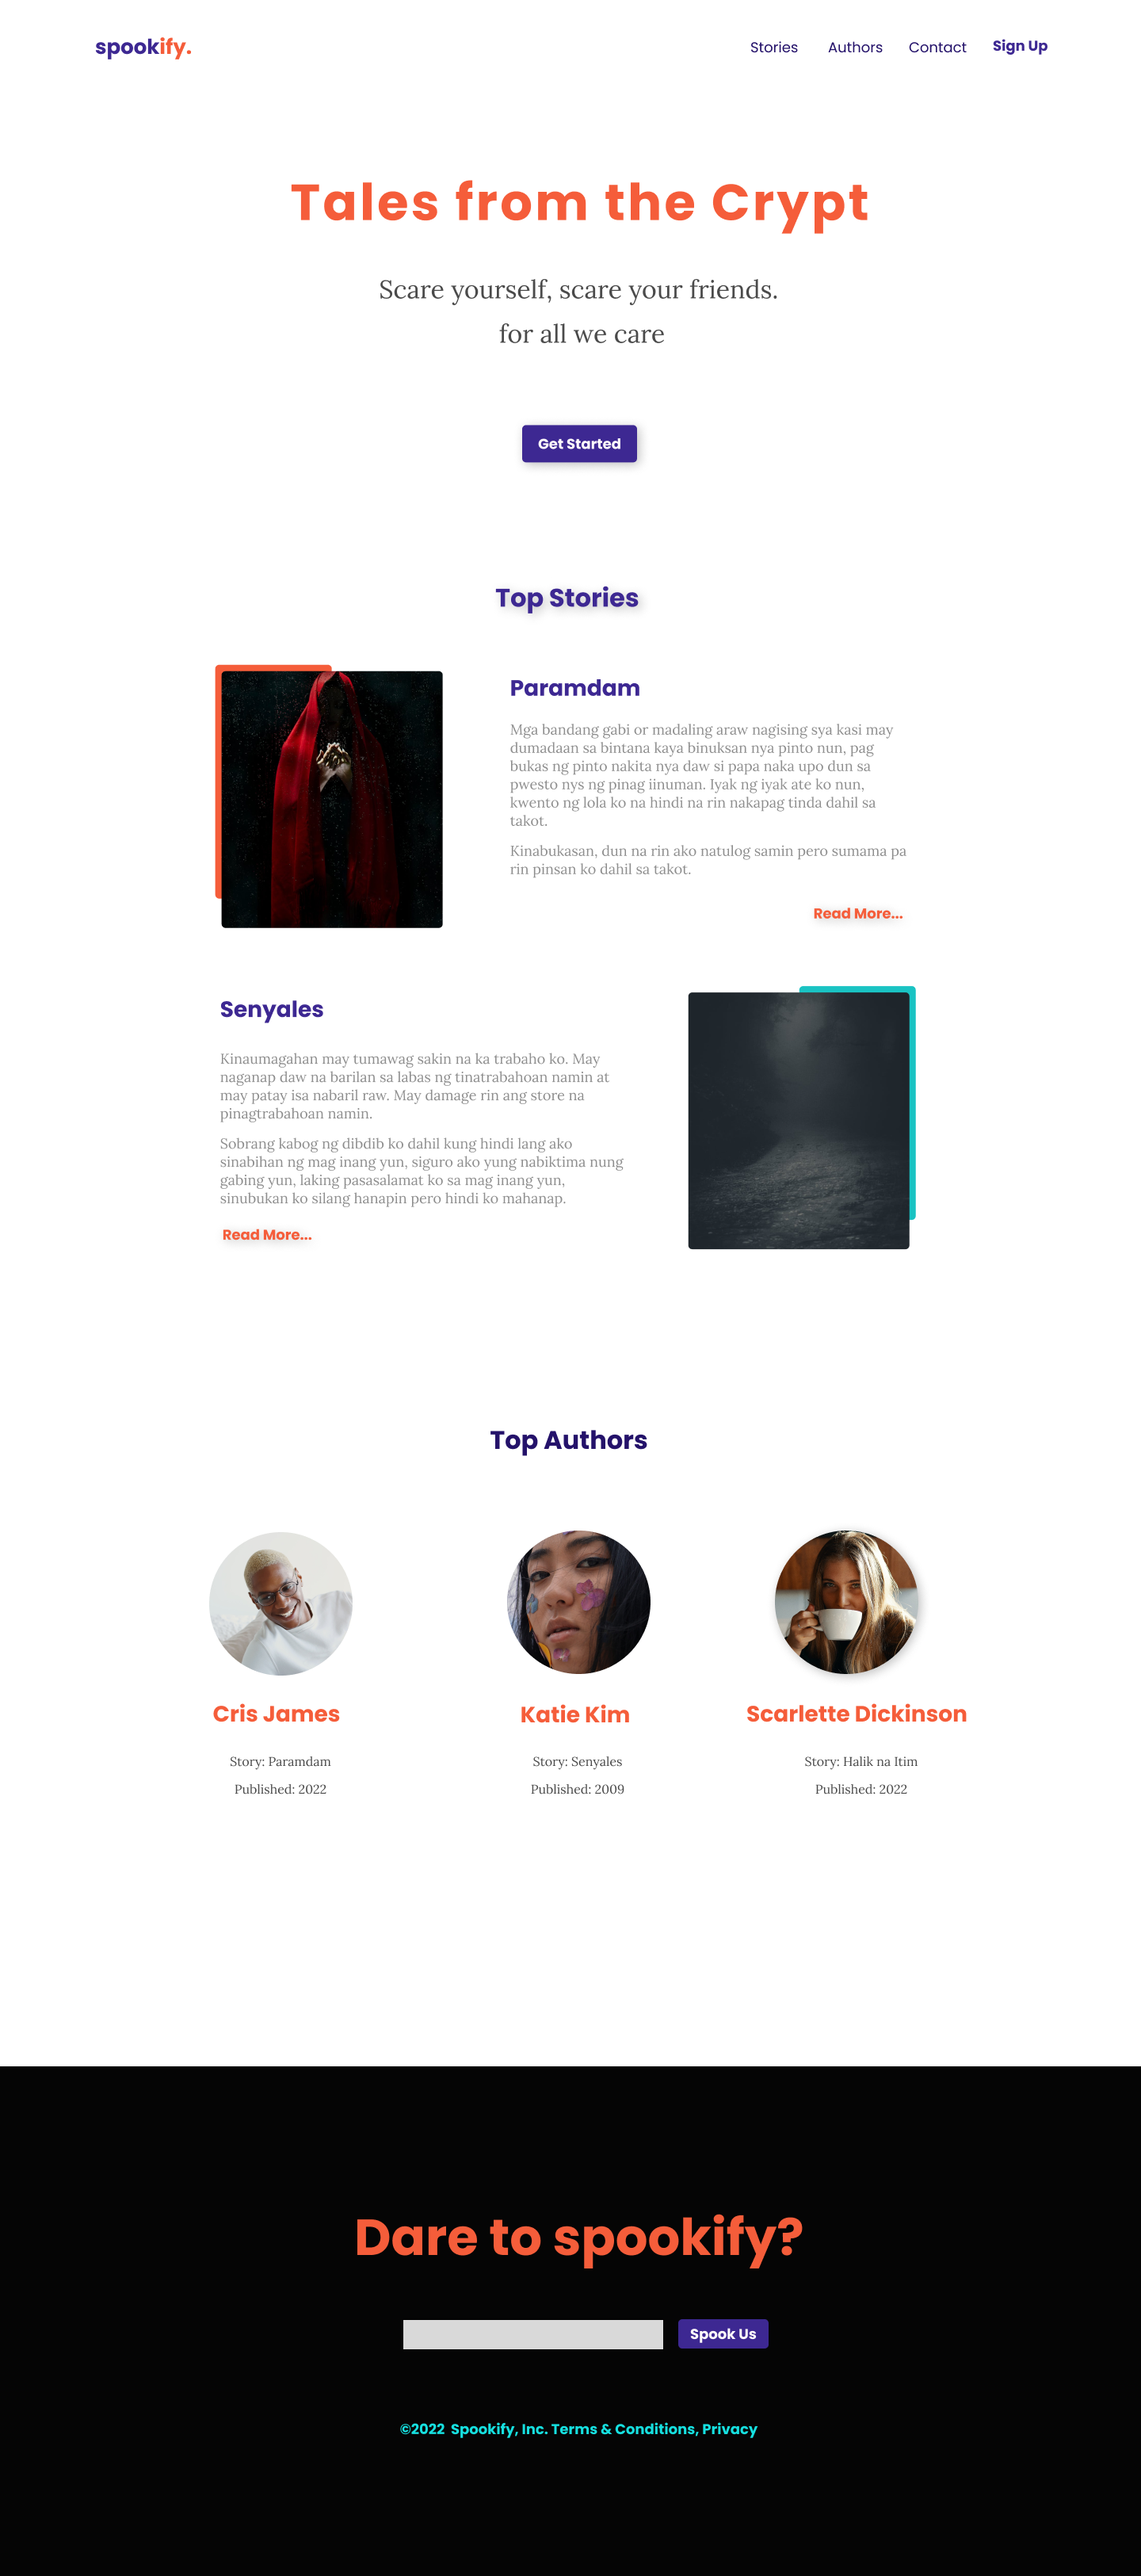
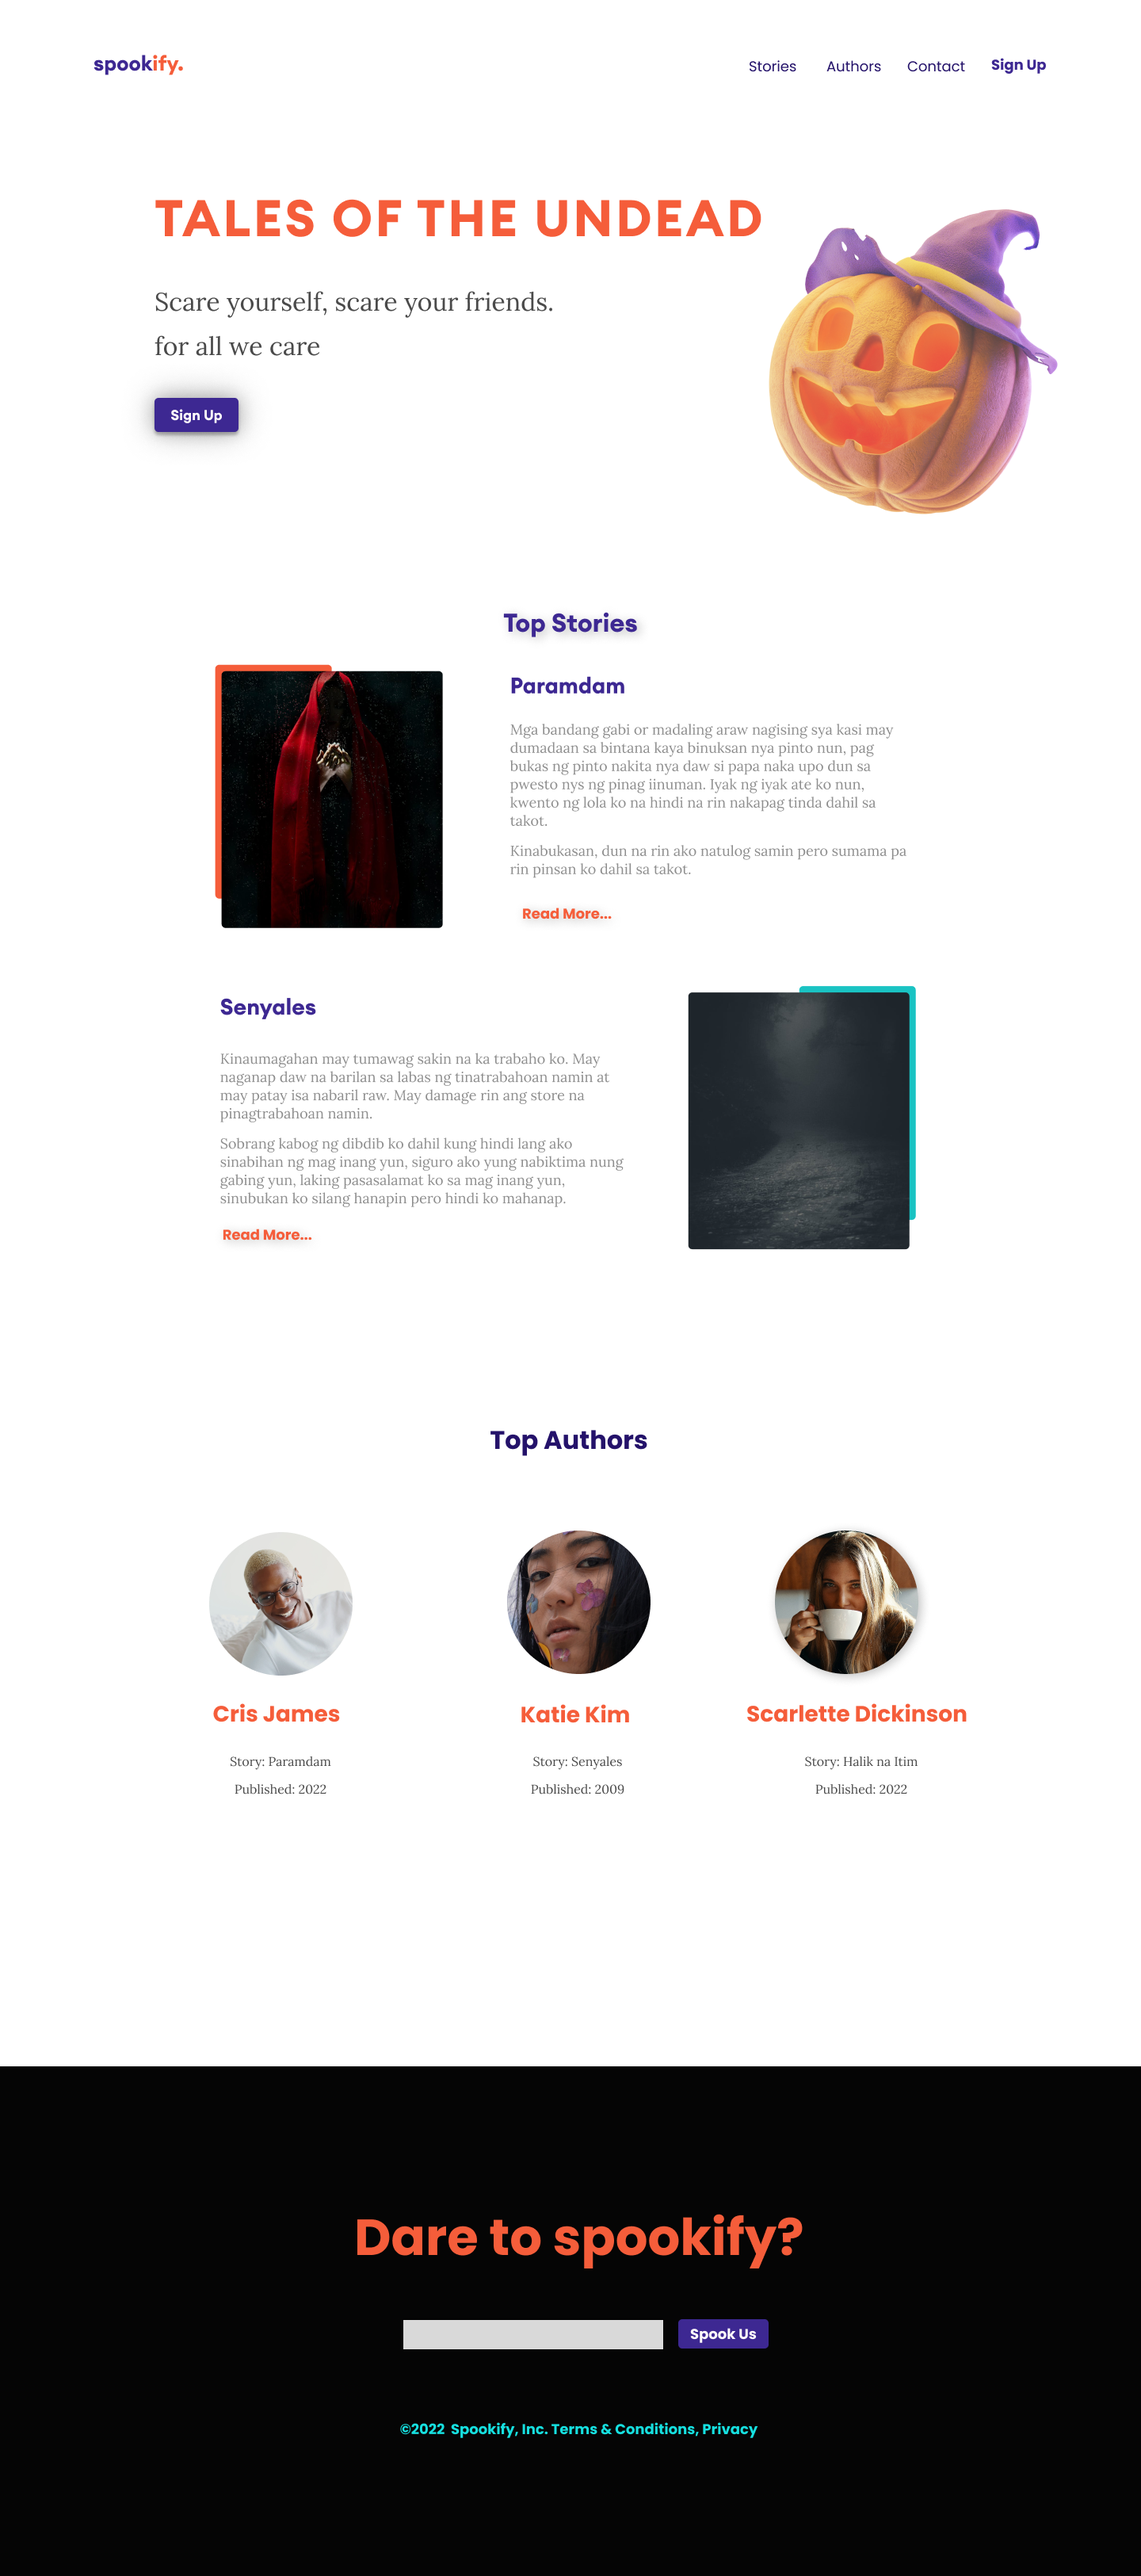
minor changes on initial reference layout

diff --git a/index.html b/index.html
@@ -10,7 +10,7 @@
     <link href="https://fonts.googleapis.com/css2?family=Lora:wght@400;700&family=Poppins:wght@400;700&display=swap"
         rel="stylesheet">
     <link rel="stylesheet" href="styles/main.css">
-    <title>spookify | Where Scary Meets Techy</title>
+    <title>spookify | </title>
 </head>
 
 <body>
@@ -28,6 +28,9 @@
     <main>
         <section class="hero">
             <div>
+                <figure>
+                    <img src="images/landing-image.png" alt="Pumpkin Image">
+                </figure>
                 <h1>Tales of the Undead</h1>
                 <h2>Scare yourself, scare your friends, for all we care</h2>
                 <a href="#">Get Started</a>
